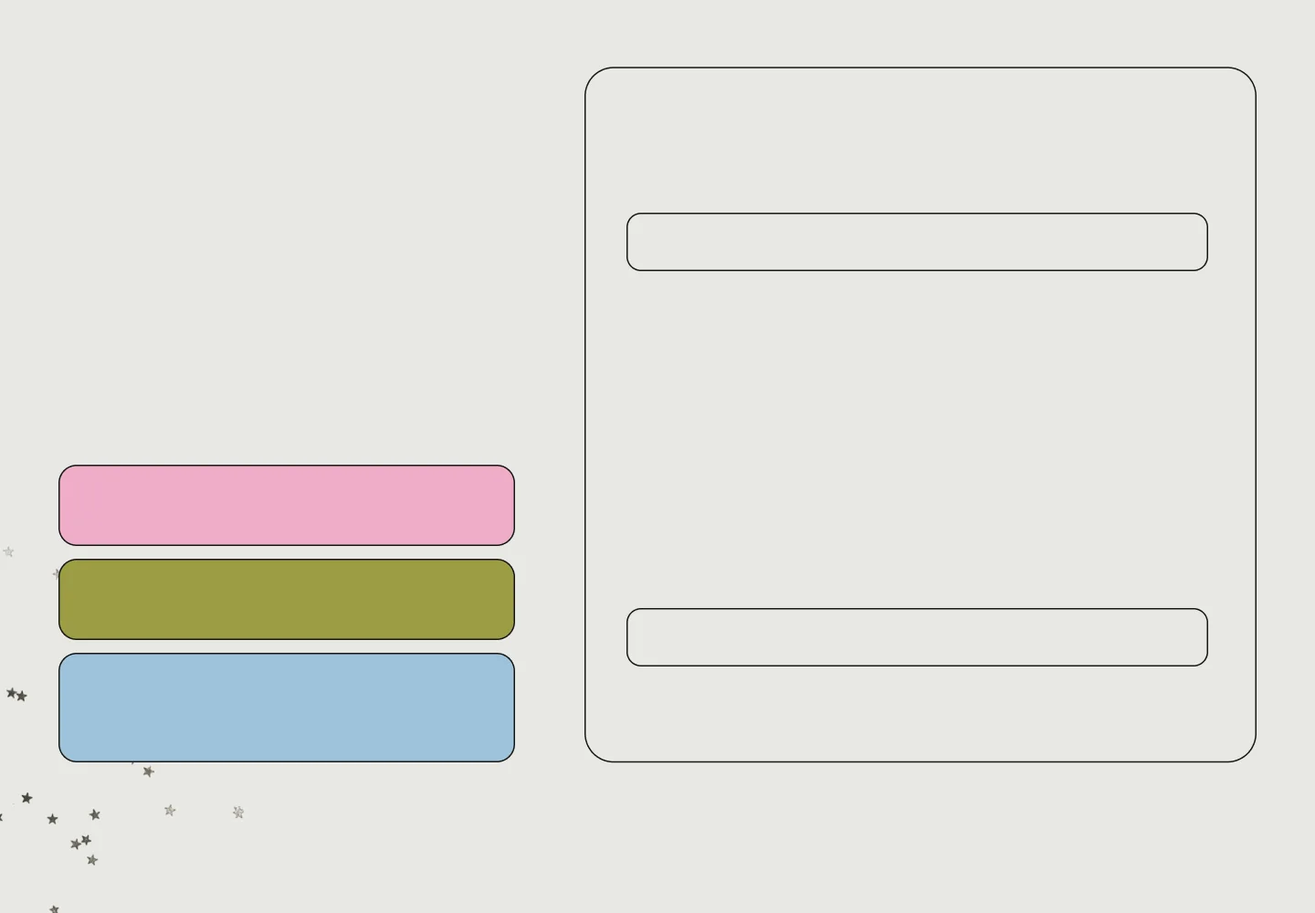
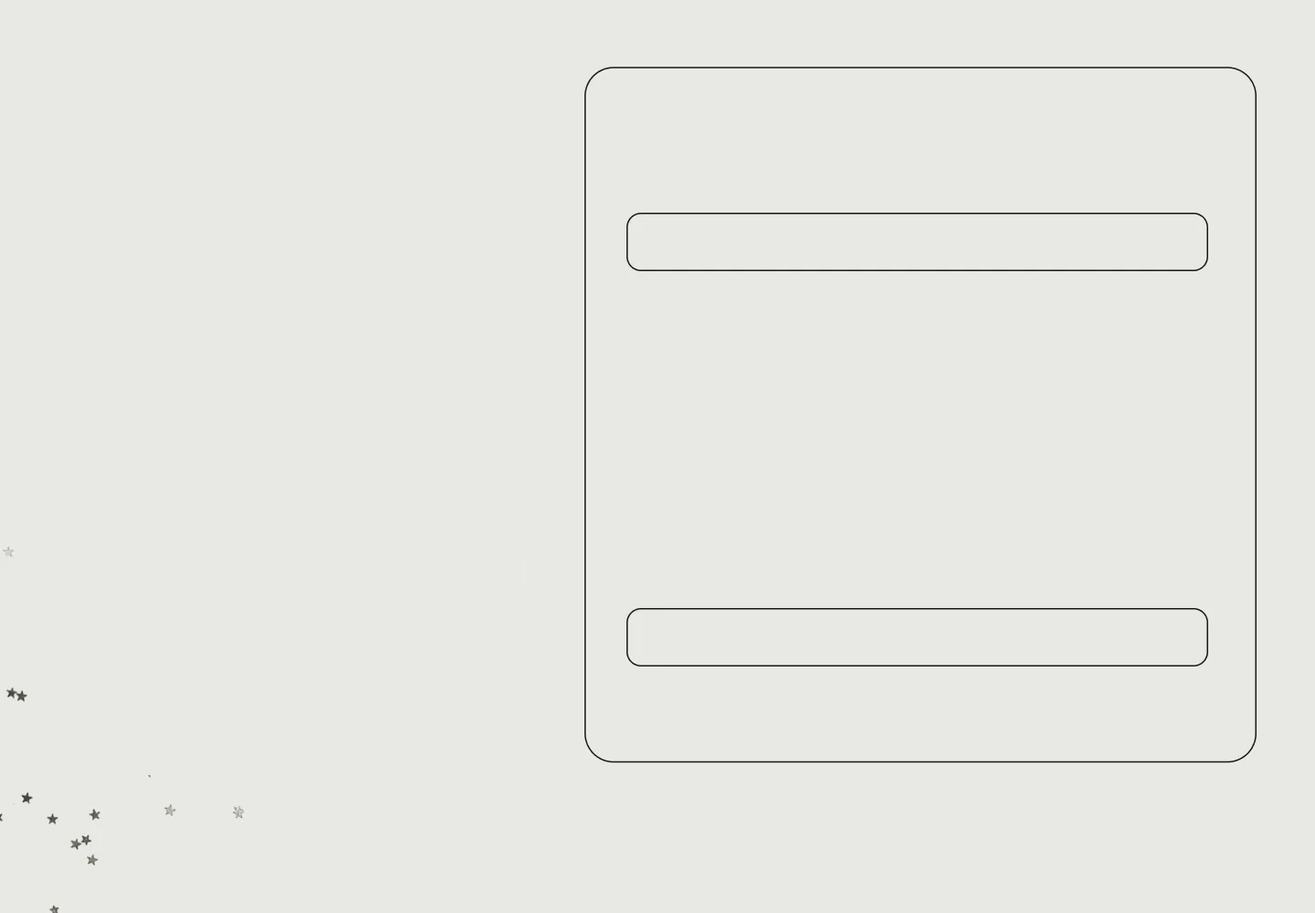
Шапка прячется при прокрутке, пасхалка с пайетками, ответы в Telegram-бот
- шапка уезжает вверх при прокрутке вниз и возвращается при прокрутке вверх
- клик по пустому месту выпускает горсть пайеток
- конфетти в блоке «до встречи» больше не качается, падающие пайетки над ним скрыты
- убраны карточки «после отправки — что увидит гость» из фона
- ответы сохраняются в Supabase и триггером уходят в Telegram-бот;
  кнопка «отправить Маше в Telegram» убрана
- supabase/telegram-setup.sql и telegram-secrets.sql для настройки

Changed region(s): [[0.0312, 0.496, 0.4062, 0.837]]

diff --git a/index.html b/index.html
@@ -25,7 +25,8 @@ img{display:block;width:100%;height:auto}
 .cv{position:relative;container-type:inline-size;width:100%;margin:0 auto;overflow-x:clip}
 .cv.d{--u:calc(100cqw / 1440)}
 .cv.m{--u:calc(100cqw / 390);max-width:560px}
-.hd{position:sticky;top:0;z-index:20}
+.hd{position:sticky;top:0;z-index:20;transition:translate .35s ease}
+.hd.away{translate:0 -100%}
 .only-m{display:none}
 @media (max-width:820px){.only-d{display:none}.only-m{display:block}}
 .o{position:absolute;left:calc(var(--x)*var(--u));top:calc(var(--y)*var(--u));width:calc(var(--w)*var(--u));height:calc(var(--h)*var(--u))}
@@ -93,7 +94,8 @@ a.o:hover,button.o:hover{background:rgba(255,255,255,.14)}
 @keyframes specks{to{background-position:calc(36*var(--u)) calc(-29*var(--u)),calc(-51*var(--u)) calc(41*var(--u))}}
 @keyframes twk{0%{opacity:.7}50%{opacity:.3}}
 /* falling paper confetti, above everything */
-.fall{position:fixed;inset:0;pointer-events:none;z-index:35;overflow:hidden}
+.fall{position:fixed;inset:0;pointer-events:none;z-index:35;overflow:hidden;transition:opacity .6s}
+.fall.calm{opacity:0}
 .fall img{position:absolute;left:0;top:0;width:var(--s);height:var(--s);will-change:transform;filter:drop-shadow(0 1px 1.5px rgba(22,22,22,.18))}
 @media (prefers-reduced-motion:reduce){.fall{display:none}}
 /* buttons as objects */
@@ -212,7 +214,7 @@ button.o.bt[aria-busy=true]{opacity:.6;pointer-events:none}
   </nav>
 </div></div>
 
-<main class="cv m only-m" id="mob" style="height:calc(11473 * var(--u))">
+<main class="cv m only-m" id="mob" style="height:calc(11128 * var(--u))">
   <img src="img/m-00.webp" alt="" width="780" height="2000">
   <img src="img/m-01.webp" alt="" width="780" height="2000" loading="lazy">
   <img src="img/m-02.webp" alt="" width="780" height="2000" loading="lazy">
@@ -224,7 +226,7 @@ button.o.bt[aria-busy=true]{opacity:.6;pointer-events:none}
   <img src="img/m-08.webp" alt="" width="780" height="2000" loading="lazy">
   <img src="img/m-09.webp" alt="" width="780" height="2000" loading="lazy">
   <img src="img/m-10.webp" alt="" width="780" height="2000" loading="lazy">
-  <img src="img/m-11.webp" alt="" width="780" height="946" loading="lazy">
+  <img src="img/m-11.webp" alt="" width="780" height="256" loading="lazy">
   <div class="tx" data-set="m"></div>
   <span class="anchor" id="m-about" style="--y:1032"></span>
   <span class="anchor" id="m-program" style="--y:2814"></span>
@@ -237,7 +239,7 @@ button.o.bt[aria-busy=true]{opacity:.6;pointer-events:none}
   <a class="o maps" data-b="12:312" href="#" style="--x:46;--y:7278;--w:299;--h:62">как добраться</a>
   <a class="o" data-b="12:471" href="#m-rsvp" style="--x:116;--y:8344;--w:159;--h:58">увидимся?</a>
   <a class="o wish" data-b="37:843" href="https://podarkus.ru/user/768787" target="_blank" rel="noopener" style="--x:20;--y:9360;--w:350;--h:68">открыть мой вишлист</a>
-  <a class="o" href="https://t.me/maru_stepanova" style="--x:20;--y:11346;--w:350;--h:56">написать в Telegram</a>
+  <a class="o" href="https://t.me/maru_stepanova" style="--x:20;--y:11001;--w:350;--h:56">написать в Telegram</a>
   <form class="rsvp" novalidate>
     <input class="hp" name="website" tabindex="-1" autocomplete="off" aria-hidden="true">
     <input class="inp" name="name" autocomplete="name" placeholder="имя или как тебя называют друзья" aria-label="Как тебя зовут?" style="--x:44;--y:9962;--w:303;--h:85">
@@ -257,18 +259,16 @@ button.o.bt[aria-busy=true]{opacity:.6;pointer-events:none}
   <div class="card">
     <p class="k" id="dlgK">ответ</p>
     <h2 id="dlgT">ура! увидимся в гараже ♡</h2>
-    <p id="dlgP">Чтобы я точно получила ответ, отправь его мне в Telegram — сообщение уже готово.</p>
+    <p id="dlgP">Ответ уже у меня. Передумаешь — просто отправь форму ещё раз.</p>
     <div class="row">
-      <a class="mbtn" id="dlgTg" href="https://t.me/maru_stepanova" target="_blank" rel="noopener">отправить Маше в Telegram</a>
-      <button class="mbtn ghost" type="button" id="dlgX">закрыть</button>
+      <button class="mbtn" type="button" id="dlgX">закрыть</button>
     </div>
-    <p class="note" id="dlgN">Ответ уйдёт сообщением в Telegram @maru_stepanova.</p>
   </div>
 </div>
 
 <canvas id="boom" aria-hidden="true"></canvas>
-<script type="application/json" id="hwdata">{"d":{"b":[[62,63,116,17,1,1188,2665],[0,126,773,269,2,0,832],[61,408,558,195,1,900,1103],[66,666,405,100,1,892,1902],[62,1015,187,17,1,0,2686],[65,1144,510,121,1,0,1779],[266,1225,450,108,1,512,1779],[61,1436,641,317,1,464,503],[20,1810,1420,501,1,0,0],[62,2131,177,19,1,896,2637],[59,2370,403,75,1,0,2190],[788,2370,605,69,1,0,2267],[59,2435,478,49,1,396,2402],[1079,2442,268,62,1,900,2267],[64,2526,273,56,1,1077,2338],[784,2580,474,43,1,993,2402],[66,2591,333,33,1,246,2505],[1006,2612,387,61,1,364,2338],[524,2712,143,56,1,0,2402],[62,3373,146,17,1,189,2686],[81,3500,493,142,1,877,1494],[843,3511,426,87,1,753,2008],[118,3750,41,19,1,1075,2637],[550,3750,41,19,1,1118,2637],[982,3789,41,19,1,1161,2637],[130,3797,322,60,1,753,2338],[576,3797,288,28,1,655,2577],[551,3852,339,205,1,559,1103],[126,3870,341,154,1,1091,1312],[1025,4000,251,31,1,350,2543],[993,4061,320,154,1,0,1494],[550,4400,41,19,1,1290,2637],[118,4439,41,19,1,1204,2637],[982,4439,41,19,1,1247,2637],[614,4446,210,33,1,827,2505],[562,4508,316,127,1,324,1650],[164,4524,244,33,1,581,2505],[1072,4526,160,31,1,603,2543],[135,4564,305,180,1,0,1312],[990,4578,322,127,1,0,1650],[722,5012,147,19,1,1333,2637],[724,5091,442,166,1,647,1312],[721,5293,557,207,1,0,1103],[915,5555,368,74,1,405,2190],[62,5868,166,19,1,0,2665],[494,5907,227,43,1,0,2460],[764,5942,101,32,1,1039,2505],[602,5950,150,28,1,945,2577],[142,6082,51,15,1,1011,2686],[742,6082,51,15,1,1064,2686],[174,6127,462,327,1,0,503],[768,6137,348,32,1,0,2543],[769,6282,45,17,1,337,2686],[770,6305,338,39,1,361,2460],[768,6352,87,15,1,1117,2686],[769,6375,206,39,1,701,2460],[769,6422,27,17,1,384,2686],[773,6445,451,37,1,909,2460],[769,6492,70,15,1,1206,2686],[773,6514,244,36,1,0,2505],[356,6516,130,39,1,229,2460],[354,6551,115,46,1,876,2402],[148,6811,425,88,1,326,2008],[836,6815,320,78,1,1124,2101],[890,6914,335,21,1,230,2637],[163,6955,250,26,1,657,2608],[890,6961,269,26,1,909,2608],[164,7001,242,27,1,1097,2577],[890,7008,262,26,1,1180,2608],[162,7048,182,27,1,0,2608],[890,7054,300,27,1,184,2608],[890,7102,327,21,1,567,2637],[641,7433,156,19,1,168,2665],[436,7592,612,104,1,0,1902],[459,7728,569,30,1,765,2543],[62,8209,126,17,1,413,2686],[73,8270,710,127,1,642,1650],[745,8458,603,87,1,0,2101],[70,8459,517,86,1,605,2101],[145,8570,553,146,1,322,1494],[62,9058,106,17,1,541,2686],[68,9114,439,72,1,775,2190],[1021,9142,291,65,1,607,2267],[685,9173,169,27,1,486,2608],[61,9214,494,236,1,775,832],[683,9356,228,26,1,0,2637],[62,9478,281,17,1,649,2686],[88,9528,77,17,1,932,2686],[87,9550,296,29,1,0,2577],[1034,9571,324,91,1,0,2008],[683,9592,249,53,1,145,2402],[88,9631,195,15,1,1278,2686],[88,9653,355,29,1,298,2577],[88,9734,161,15,1,0,2705],[87,9754,362,62,1,0,2338],[65,10140,338,179,1,307,1312],[479,10217,276,103,1,614,1902],[62,10427,562,19,1,326,2665],[1021,10517,296,18,1,890,2665]],"sz":[1480,2720],"k":1,"src":"img/d-text.webp"},"m":{"b":[[18,31,91,14,1,536,9582],[17,61,356,123,2,0,4704],[17,625,344,228,10,0,1874],[17,867,222,57,2,0,6514],[18,1087,145,14,1,0,9614],[17,1116,211,66,2,344,5882],[51,1529,126,30,1,0,8406],[18,1639,340,49,2,0,7482],[17,1708,354,310,13,0,774],[18,2136,137,16,1,0,9482],[17,2153,183,37,2,0,7850],[17,2190,242,28,1,290,8528],[17,2217,148,33,1,0,8210],[17,2250,169,20,1,446,9320],[100,2291,273,34,1,0,8070],[236,2326,137,34,1,0,8140],[133,2360,240,24,1,0,8702],[176,2384,197,33,1,298,8210],[0,2478,390,115,1,0,4952],[158,2545,55,24,1,482,8702],[0,2765,390,53,1,0,6856],[18,2869,114,14,1,292,9614],[17,2895,204,62,2,0,6024],[17,2967,216,46,2,0,7582],[42,3089,41,19,1,194,9364],[42,3168,237,53,2,0,6964],[41,3244,300,386,15,0,0],[42,3733,41,19,1,278,9364],[43,3812,256,29,1,0,8468],[41,3856,290,206,8,0,2760],[42,4164,41,19,1,362,9364],[42,4237,233,34,1,276,8140],[42,4287,272,128,5,0,3934],[42,4517,41,19,1,446,9364],[42,4590,221,35,1,0,7926],[41,4640,306,180,7,0,3572],[42,4922,41,19,1,530,9364],[43,5001,151,28,1,0,8588],[41,5046,293,127,5,0,4192],[42,5275,41,19,1,614,9364],[42,5348,196,35,1,0,7998],[42,5398,303,127,5,0,4448],[18,6018,114,16,1,276,9482],[17,6048,171,70,2,0,5882],[17,6137,339,238,10,0,1396],[17,6391,202,43,2,0,7676],[18,6550,129,16,1,506,9482],[17,6580,144,29,1,0,8528],[185,6602,65,22,1,508,9002],[84,6607,96,20,1,0,9364],[43,6668,43,13,1,168,9644],[43,6693,279,198,9,0,3174],[44,6902,83,27,1,304,8588],[42,6924,74,31,1,0,8278],[42,6982,208,21,1,0,9188],[44,7015,38,15,1,246,9516],[43,7028,190,24,1,0,8752],[44,7064,72,13,1,256,9644],[43,7077,117,24,1,382,8752],[44,7113,24,15,1,324,9516],[43,7126,253,23,1,0,9002],[44,7161,58,13,1,402,9644],[43,7175,138,22,1,0,9050],[42,7408,191,21,1,418,9188],[43,7443,213,21,1,0,9232],[43,7478,207,22,1,278,9050],[43,7514,160,22,1,0,9096],[17,7577,202,51,2,0,7072],[42,7667,306,24,1,0,8802],[43,7705,277,18,1,0,9406],[43,7741,227,21,1,0,9276],[43,7777,222,21,1,0,9320],[43,7812,251,22,1,0,9142],[43,7849,271,18,1,0,9444],[134,8147,122,16,1,0,9516],[31,8173,328,57,2,0,6630],[21,8245,346,42,2,0,7764],[82,8302,225,30,1,254,8406],[18,8747,98,14,1,522,9614],[17,8777,257,50,2,0,7176],[18,8847,336,213,9,0,2332],[17,9077,280,76,3,0,5728],[45,9446,299,13,1,0,9674],[18,9578,83,14,1,0,9644],[18,9621,249,90,2,0,5374],[17,9726,344,94,4,0,5184],[42,9864,169,27,1,0,8646],[43,9897,295,59,2,0,6274],[41,10078,208,24,1,0,8852],[41,10329,292,50,2,0,7278],[43,10389,288,59,2,0,6394],[18,10644,231,15,1,0,9550],[38,10695,64,15,1,464,9550],[37,10713,236,24,1,0,8902],[38,10793,160,13,1,0,9702],[37,10810,282,24,1,0,8952],[38,10891,133,13,1,322,9702],[37,10907,288,50,2,0,7380],[19,11103,302,85,2,0,5556],[17,11203,241,61,1,0,6150],[18,11307,328,31,2,0,8342],[21,11348,346,54,2,0,6746],[18,11412,267,15,1,0,9582]],"sz":[800,9728],"k":2,"src":"img/m-text.webp"}}</script>
-<script type="application/json" id="dcdata">{"dsec": [[0, 920], [920, 1140], [2060, 1218], [3278, 1615], [4893, 880], [5773, 1521], [7294, 820], [8114, 849], [8963, 1055], [10018, 560]], "msec": [[0, 1032], [1032, 1050], [2082, 733], [2814, 2798], [5613, 883], [6495, 1463], [7958, 734], [8692, 831], [9523, 1516], [11039, 434]], "d": [{"f": "img/x-5_50.webp", "x": 510, "y": 654, "w": 60, "h": 60, "a": "spin", "d": 0.08, "s": 0, "m": false}, {"f": "img/x-5_62.webp", "x": 1210, "y": 0, "w": 225.3, "h": 267.9, "a": "swing", "d": 0, "s": 0, "m": false}, {"f": "img/x-38_1563.webp", "x": 739, "y": 251, "w": 69, "h": 90, "a": "float", "d": 0.06, "s": 0, "m": false}, {"f": "img/x-72_218.webp", "x": 1292.4, "y": 451, "w": 79.2, "h": 79.2, "a": "float", "d": 0.1, "s": 0, "m": false}, {"f": "img/x-24_762.webp", "x": 667, "y": 672, "w": 148, "h": 116, "a": "nudge", "d": 0.02, "s": 2, "m": false}, {"f": "img/x-21_929.webp", "x": 525, "y": 453.4, "w": 68, "h": 76.7, "a": "beat", "d": 0.04, "s": 2, "m": false}, {"f": "img/x-6_359.webp", "x": 40, "y": 640, "w": 48, "h": 48, "a": "spin", "d": 0.08, "s": 2, "m": false}, {"f": "img/x-73_701.webp", "x": 113.2, "y": 927.1, "w": 99.3, "h": 99.3, "a": "spin", "d": 0.06, "s": 1, "m": false}, {"f": "img/x-72_222.webp", "x": 1235.1, "y": 174, "w": 57.8, "h": 57.8, "a": "float", "d": 0.1, "s": 2, "m": false}, {"f": "img/x-72_228.webp", "x": 440, "y": 1531, "w": 46.3, "h": 46.3, "a": "float", "d": 0.12, "s": 3, "m": false}, {"f": "img/x-6_494.webp", "x": 92.8, "y": 136.8, "w": 594.2, "h": 594.2, "a": "spinslow", "d": 0.04, "s": 4, "m": false}, {"f": "img/x-28_562.webp", "x": 0, "y": 360, "w": 526, "h": 520, "a": "glimmer", "d": 0, "s": 4, "m": false}, {"f": "img/x-6_495.webp", "x": 1172, "y": 0, "w": 254, "h": 299.9, "a": "swing", "d": 0, "s": 4, "m": false}, {"f": "img/x-72_224.webp", "x": 93, "y": 149.4, "w": 59.3, "h": 59.3, "a": "float", "d": 0.1, "s": 4, "m": false}, {"f": "img/x-72_226.webp", "x": 577.3, "y": 651, "w": 57.4, "h": 57.4, "a": "float", "d": 0.12, "s": 4, "m": false}, {"f": "img/x-8_449.webp", "x": 1049, "y": 440, "w": 200.8, "h": 81, "a": "drift", "d": 0.02, "s": 5, "m": false}, {"f": "img/x-28_444.webp", "x": 924, "y": 1449, "w": 44.6, "h": 44.6, "a": "float", "d": 0.08, "s": 5, "m": false}, {"f": "img/x-72_230.webp", "x": 1293.5, "y": 260, "w": 62.2, "h": 62.2, "a": "float", "d": 0.1, "s": 5, "m": false}, {"f": "img/x-72_232.webp", "x": 82, "y": 880.3, "w": 48.5, "h": 48.5, "a": "float", "d": 0.12, "s": 5, "m": false}, {"f": "img/x-33_1415.webp", "x": 971, "y": 0, "w": 469, "h": 234.9, "a": "glimmer", "d": 0, "s": 6, "m": false}, {"f": "img/x-72_234.webp", "x": 156.8, "y": 95, "w": 73.4, "h": 73.4, "a": "float", "d": 0.1, "s": 6, "m": false}, {"f": "img/x-38_1528.webp", "x": 1100, "y": 741.7, "w": 56.5, "h": 56.5, "a": "float", "d": 0.08, "s": 7, "m": false}, {"f": "img/x-38_1524.webp", "x": 1387.2, "y": 548.3, "w": 42.7, "h": 42.7, "a": "float", "d": 0.12, "s": 7, "m": false}, {"f": "img/x-38_1526.webp", "x": 1338.9, "y": 734.7, "w": 56.3, "h": 56.3, "a": "float", "d": 0.06, "s": 7, "m": false}, {"f": "img/x-38_1522.webp", "x": 75, "y": 645, "w": 45.2, "h": 45.2, "a": "float", "d": 0.1, "s": 7, "m": false}, {"f": "img/x-8_762.webp", "x": 1290, "y": 20.9, "w": 127.4, "h": 127.4, "a": "spin", "d": 0.06, "s": 9, "m": false}, {"f": "img/x-28_564.webp", "x": 620, "y": 0, "w": 675, "h": 560, "a": "glimmer", "d": 0, "s": 9, "m": false}, {"f": "img/x-72_236.webp", "x": 942, "y": 87.6, "w": 50.4, "h": 50.4, "a": "float", "d": 0.1, "s": 9, "m": false}, {"f": "img/x-26_732.webp", "x": 0, "y": 7232, "w": 1440, "h": 890.5, "a": "float", "d": 0.03, "s": -1, "m": false}, {"f": "img/x-38_1530.webp", "x": 1194.3, "y": 8912.1, "w": 55.7, "h": 55.7, "a": "float", "d": 0.09, "s": -1, "m": false}, {"f": "img/x-72_220.webp", "x": 612, "y": 181.4, "w": 46.5, "h": 46.5, "a": "float", "d": 0.1, "s": 1, "m": false}, {"f": "img/x-5_68.webp", "x": 607, "y": 507, "w": 245.7, "h": 332.5, "a": "sway", "d": 0.03, "s": 0, "m": true}, {"f": "img/x-26_939.webp", "x": 6.1, "y": 25, "w": 1424.9, "h": 790.7, "a": "float", "d": 0.07, "s": 0, "m": false}], "m": [{"f": "img/y-11_111.webp", "x": 288, "y": 131, "w": 102, "h": 184.3, "a": "bob", "d": 0.04, "s": 0, "m": false}, {"f": "img/y-11_117.webp", "x": 30, "y": 211, "w": 232.8, "h": 61.9, "a": "wobble", "d": 0.05, "s": 0, "m": false}, {"f": "img/y-12_209.webp", "x": 250, "y": -0.1, "w": 131.1, "h": 162.6, "a": "swing", "d": 0, "s": 4, "m": false}, {"f": "img/y-12_532.webp", "x": 290, "y": 9.9, "w": 92.7, "h": 92.7, "a": "spin", "d": 0.05, "s": 9, "m": false}, {"f": "img/y-26_1366.webp", "x": 130.2, "y": 18, "w": 141.6, "h": 149.3, "a": "float", "d": 0.06, "s": 6, "m": false}, {"f": "img/y-28_960.webp", "x": 0, "y": 278.7, "w": 24.1, "h": 49, "a": "bob", "d": 0.062, "s": 0, "m": false}, {"f": "img/y-28_962.webp", "x": 338, "y": 238.6, "w": 48.5, "h": 48.5, "a": "float", "d": 0.08600000000000001, "s": 0, "m": false}, {"f": "img/y-28_964.webp", "x": 334.6, "y": 528.7, "w": 55.4, "h": 55.5, "a": "bob", "d": 0.11, "s": 0, "m": false}, {"f": "img/y-28_966.webp", "x": 2.5, "y": 569.1, "w": 53.8, "h": 53.8, "a": "float", "d": 0.05, "s": 0, "m": false}, {"f": "img/y-28_968.webp", "x": 217.7, "y": 551.4, "w": 55.9, "h": 55.9, "a": "float", "d": 0.07400000000000001, "s": 0, "m": false}, {"f": "img/y-28_970.webp", "x": 277.9, "y": 328.9, "w": 40, "h": 40, "a": "float", "d": 0.098, "s": 0, "m": false}, {"f": "img/y-28_972.webp", "x": 0, "y": 582.2, "w": 11.1, "h": 50.8, "a": "bob", "d": 0.12200000000000001, "s": 6, "m": false}, {"f": "img/y-28_974.webp", "x": 159.3, "y": 604.2, "w": 56.5, "h": 56.5, "a": "float", "d": 0.062, "s": 6, "m": false}, {"f": "img/y-28_976.webp", "x": 315.9, "y": 11.5, "w": 55.9, "h": 55.9, "a": "float", "d": 0.08600000000000001, "s": 6, "m": false}, {"f": "img/y-28_978.webp", "x": 354.8, "y": 323, "w": 35.2, "h": 56.5, "a": "bob", "d": 0.11, "s": 6, "m": false}, {"f": "img/y-28_980.webp", "x": 0, "y": 620.7, "w": 34.5, "h": 53.5, "a": "bob", "d": 0.05, "s": 6, "m": false}, {"f": "img/y-28_982.webp", "x": 331.5, "y": 504.8, "w": 55.5, "h": 55.5, "a": "float", "d": 0.07400000000000001, "s": 6, "m": false}, {"f": "img/y-28_984.webp", "x": 349.1, "y": 567.3, "w": 40.9, "h": 55.9, "a": "bob", "d": 0.098, "s": 6, "m": false}, {"f": "img/y-28_986.webp", "x": 206.5, "y": 7926.6, "w": 40, "h": 40, "a": "float", "d": 0.12200000000000001, "s": -1, "m": false}, {"f": "img/y-28_988.webp", "x": 123.8, "y": 568.4, "w": 56.4, "h": 56.4, "a": "float", "d": 0.062, "s": 6, "m": false}, {"f": "img/y-28_990.webp", "x": 282.4, "y": 621.7, "w": 55.3, "h": 55.3, "a": "float", "d": 0.08600000000000001, "s": 6, "m": false}, {"f": "img/y-28_992.webp", "x": 161.8, "y": 595.3, "w": 56.5, "h": 56.5, "a": "float", "d": 0.11, "s": 6, "m": false}, {"f": "img/y-28_994.webp", "x": 364.8, "y": 517.6, "w": 25.2, "h": 44, "a": "bob", "d": 0.05, "s": 6, "m": false}, {"f": "img/y-28_996.webp", "x": 330.7, "y": 461.4, "w": 54.6, "h": 54.6, "a": "float", "d": 0.07400000000000001, "s": 6, "m": false}, {"f": "img/y-28_998.webp", "x": 155.1, "y": 521.6, "w": 40.7, "h": 40.7, "a": "float", "d": 0.098, "s": 6, "m": false}, {"f": "img/y-28_1000.webp", "x": 344.3, "y": 11.8, "w": 45.2, "h": 45.2, "a": "bob", "d": 0.12200000000000001, "s": 6, "m": false}, {"f": "img/y-28_1002.webp", "x": 141.3, "y": 35.1, "w": 49, "h": 49, "a": "float", "d": 0.062, "s": 6, "m": false}, {"f": "img/y-28_1004.webp", "x": 0, "y": 567.3, "w": 50.8, "h": 51.3, "a": "bob", "d": 0.08600000000000001, "s": 6, "m": false}, {"f": "img/y-28_1006.webp", "x": 94, "y": 502.9, "w": 40, "h": 40, "a": "float", "d": 0.11, "s": 6, "m": false}, {"f": "img/y-28_1008.webp", "x": 209.6, "y": 7939.1, "w": 54.1, "h": 54.1, "a": "float", "d": 0.05, "s": -1, "m": false}, {"f": "img/y-28_1010.webp", "x": 167.1, "y": 579.7, "w": 49, "h": 49, "a": "float", "d": 0.07400000000000001, "s": 6, "m": false}, {"f": "img/y-28_1012.webp", "x": 171.3, "y": 0, "w": 53.5, "h": 49.5, "a": "none", "d": 0, "s": 6, "m": false}, {"f": "img/y-28_1014.webp", "x": 343, "y": 0, "w": 47, "h": 46, "a": "none", "d": 0, "s": 6, "m": false}, {"f": "img/y-28_1016.webp", "x": 248.5, "y": 20.6, "w": 54.4, "h": 54.4, "a": "float", "d": 0.062, "s": 6, "m": false}, {"f": "img/y-28_1018.webp", "x": 340.7, "y": 28.9, "w": 48, "h": 48, "a": "float", "d": 0.08600000000000001, "s": 6, "m": false}, {"f": "img/y-28_1020.webp", "x": 270.1, "y": 518.6, "w": 51.7, "h": 51.7, "a": "float", "d": 0.11, "s": 6, "m": false}, {"f": "img/y-28_1022.webp", "x": 351.3, "y": 499, "w": 38.7, "h": 56, "a": "bob", "d": 0.05, "s": 6, "m": false}, {"f": "img/y-37_835.webp", "x": 60, "y": 517.8, "w": 40, "h": 40, "a": "float", "d": 0.07400000000000001, "s": 7, "m": false}, {"f": "img/y-37_837.webp", "x": 310, "y": 463.1, "w": 54.6, "h": 54.6, "a": "float", "d": 0.098, "s": 7, "m": false}, {"f": "img/y-37_839.webp", "x": 270, "y": 543.1, "w": 54.6, "h": 54.6, "a": "float", "d": 0.12200000000000001, "s": 7, "m": false}, {"f": "img/y-37_841.webp", "x": 40, "y": 567.8, "w": 40, "h": 40, "a": "float", "d": 0.062, "s": 7, "m": false}, {"f": "img/y-72_623.webp", "x": 296.3, "y": 381, "w": 56.4, "h": 56.4, "a": "float", "d": 0.1, "s": 0, "m": false}, {"f": "img/y-72_625.webp", "x": 22, "y": 75.9, "w": 48, "h": 48, "a": "float", "d": 0.1, "s": 4, "m": false}, {"f": "img/y-72_627.webp", "x": 312.3, "y": 313.9, "w": 48.5, "h": 48.5, "a": "float", "d": 0.12, "s": 4, "m": false}], "db": {"38:1532": ["img/x-38_1532.webp", 895, 8721, 395, 89], "8:469": ["img/x-8_469.webp", 770, 6603, 159, 58], "8:471": ["img/x-8_471.webp", 943, 6603, 195, 62], "8:694": ["img/x-8_694.webp", 640, 7790, 159, 58], "8:751": ["img/x-8_751.webp", 689.5, 9749.8, 208, 58]}, "mb": {"12:310": ["img/y-12_310.webp", 45.5, 7210.2, 299, 58], "12:312": ["img/y-12_312.webp", 45.5, 7278.2, 299, 62], "12:471": ["img/y-12_471.webp", 115.5, 8344.3, 159, 58], "37:843": ["img/y-37_843.webp", 20, 9359.8, 350, 68], "12:513": ["img/y-12_513.webp", 43.5, 10544.3, 303, 58]}}</script>
+<script type="application/json" id="hwdata">{"d":{"b":[[62,63,116,17,1,1188,2665],[0,126,773,269,2,0,832],[61,408,558,195,1,900,1103],[66,666,405,100,1,892,1902],[62,1015,187,17,1,0,2686],[65,1144,510,121,1,0,1779],[266,1225,450,108,1,512,1779],[61,1436,641,317,1,464,503],[20,1810,1420,501,1,0,0],[62,2131,177,19,1,896,2637],[59,2370,403,75,1,0,2190],[788,2370,605,69,1,0,2267],[59,2435,478,49,1,396,2402],[1079,2442,268,62,1,900,2267],[64,2526,273,56,1,1077,2338],[784,2580,474,43,1,993,2402],[66,2591,333,33,1,246,2505],[1006,2612,387,61,1,364,2338],[524,2712,143,56,1,0,2402],[62,3373,146,17,1,189,2686],[81,3500,493,142,1,877,1494],[843,3511,426,87,1,753,2008],[118,3750,41,19,1,1075,2637],[550,3750,41,19,1,1118,2637],[982,3789,41,19,1,1161,2637],[130,3797,322,60,1,753,2338],[576,3797,288,28,1,655,2577],[551,3852,339,205,1,559,1103],[126,3870,341,154,1,1091,1312],[1025,4000,251,31,1,350,2543],[993,4061,320,154,1,0,1494],[550,4400,41,19,1,1290,2637],[118,4439,41,19,1,1204,2637],[982,4439,41,19,1,1247,2637],[614,4446,210,33,1,827,2505],[562,4508,316,127,1,324,1650],[164,4524,244,33,1,581,2505],[1072,4526,160,31,1,603,2543],[135,4564,305,180,1,0,1312],[990,4578,322,127,1,0,1650],[722,5012,147,19,1,1333,2637],[724,5091,442,166,1,647,1312],[721,5293,557,207,1,0,1103],[915,5555,368,74,1,405,2190],[62,5868,166,19,1,0,2665],[494,5907,227,43,1,0,2460],[764,5942,101,32,1,1039,2505],[602,5950,150,28,1,945,2577],[142,6082,51,15,1,1011,2686],[742,6082,51,15,1,1064,2686],[174,6127,462,327,1,0,503],[768,6137,348,32,1,0,2543],[769,6282,45,17,1,337,2686],[770,6305,338,39,1,361,2460],[768,6352,87,15,1,1117,2686],[769,6375,206,39,1,701,2460],[769,6422,27,17,1,384,2686],[773,6445,451,37,1,909,2460],[769,6492,70,15,1,1206,2686],[773,6514,244,36,1,0,2505],[356,6516,130,39,1,229,2460],[354,6551,115,46,1,876,2402],[148,6811,425,88,1,326,2008],[836,6815,320,78,1,1124,2101],[890,6914,335,21,1,230,2637],[163,6955,250,26,1,657,2608],[890,6961,269,26,1,909,2608],[164,7001,242,27,1,1097,2577],[890,7008,262,26,1,1180,2608],[162,7048,182,27,1,0,2608],[890,7054,300,27,1,184,2608],[890,7102,327,21,1,567,2637],[641,7433,156,19,1,168,2665],[436,7592,612,104,1,0,1902],[459,7728,569,30,1,765,2543],[62,8209,126,17,1,413,2686],[73,8270,710,127,1,642,1650],[745,8458,603,87,1,0,2101],[70,8459,517,86,1,605,2101],[145,8570,553,146,1,322,1494],[62,9058,106,17,1,541,2686],[68,9114,439,72,1,775,2190],[1021,9142,291,65,1,607,2267],[685,9173,169,27,1,486,2608],[61,9214,494,236,1,775,832],[683,9356,228,26,1,0,2637],[1034,9571,324,91,1,0,2008],[683,9592,249,53,1,145,2402],[65,10140,338,179,1,307,1312],[479,10217,276,103,1,614,1902],[62,10427,562,19,1,326,2665],[1021,10517,296,18,1,890,2665]],"sz":[1480,2720],"k":1,"src":"img/d-text.webp"},"m":{"b":[[18,31,91,14,1,536,9582],[17,61,356,123,2,0,4704],[17,625,344,228,10,0,1874],[17,867,222,57,2,0,6514],[18,1087,145,14,1,0,9614],[17,1116,211,66,2,344,5882],[51,1529,126,30,1,0,8406],[18,1639,340,49,2,0,7482],[17,1708,354,310,13,0,774],[18,2136,137,16,1,0,9482],[17,2153,183,37,2,0,7850],[17,2190,242,28,1,290,8528],[17,2217,148,33,1,0,8210],[17,2250,169,20,1,446,9320],[100,2291,273,34,1,0,8070],[236,2326,137,34,1,0,8140],[133,2360,240,24,1,0,8702],[176,2384,197,33,1,298,8210],[0,2478,390,115,1,0,4952],[158,2545,55,24,1,482,8702],[0,2765,390,53,1,0,6856],[18,2869,114,14,1,292,9614],[17,2895,204,62,2,0,6024],[17,2967,216,46,2,0,7582],[42,3089,41,19,1,194,9364],[42,3168,237,53,2,0,6964],[41,3244,300,386,15,0,0],[42,3733,41,19,1,278,9364],[43,3812,256,29,1,0,8468],[41,3856,290,206,8,0,2760],[42,4164,41,19,1,362,9364],[42,4237,233,34,1,276,8140],[42,4287,272,128,5,0,3934],[42,4517,41,19,1,446,9364],[42,4590,221,35,1,0,7926],[41,4640,306,180,7,0,3572],[42,4922,41,19,1,530,9364],[43,5001,151,28,1,0,8588],[41,5046,293,127,5,0,4192],[42,5275,41,19,1,614,9364],[42,5348,196,35,1,0,7998],[42,5398,303,127,5,0,4448],[18,6018,114,16,1,276,9482],[17,6048,171,70,2,0,5882],[17,6137,339,238,10,0,1396],[17,6391,202,43,2,0,7676],[18,6550,129,16,1,506,9482],[17,6580,144,29,1,0,8528],[185,6602,65,22,1,508,9002],[84,6607,96,20,1,0,9364],[43,6668,43,13,1,168,9644],[43,6693,279,198,9,0,3174],[44,6902,83,27,1,304,8588],[42,6924,74,31,1,0,8278],[42,6982,208,21,1,0,9188],[44,7015,38,15,1,246,9516],[43,7028,190,24,1,0,8752],[44,7064,72,13,1,256,9644],[43,7077,117,24,1,382,8752],[44,7113,24,15,1,324,9516],[43,7126,253,23,1,0,9002],[44,7161,58,13,1,402,9644],[43,7175,138,22,1,0,9050],[42,7408,191,21,1,418,9188],[43,7443,213,21,1,0,9232],[43,7478,207,22,1,278,9050],[43,7514,160,22,1,0,9096],[17,7577,202,51,2,0,7072],[42,7667,306,24,1,0,8802],[43,7705,277,18,1,0,9406],[43,7741,227,21,1,0,9276],[43,7777,222,21,1,0,9320],[43,7812,251,22,1,0,9142],[43,7849,271,18,1,0,9444],[134,8147,122,16,1,0,9516],[31,8173,328,57,2,0,6630],[21,8245,346,42,2,0,7764],[82,8302,225,30,1,254,8406],[18,8747,98,14,1,522,9614],[17,8777,257,50,2,0,7176],[18,8847,336,213,9,0,2332],[17,9077,280,76,3,0,5728],[45,9446,299,13,1,0,9674],[18,9578,83,14,1,0,9644],[18,9621,249,90,2,0,5374],[17,9726,344,94,4,0,5184],[42,9864,169,27,1,0,8646],[43,9897,295,59,2,0,6274],[41,10078,208,24,1,0,8852],[41,10329,292,50,2,0,7278],[43,10389,288,59,2,0,6394],[19,10758,302,85,2,0,5556],[17,10858,241,61,1,0,6150],[18,10962,328,31,2,0,8342],[21,11003,346,54,2,0,6746],[18,11067,267,15,1,0,9582]],"sz":[800,9728],"k":2,"src":"img/m-text.webp"}}</script>
+<script type="application/json" id="dcdata">{"dsec":[[0,920],[920,1140],[2060,1218],[3278,1615],[4893,880],[5773,1521],[7294,820],[8114,849],[8963,1055],[10018,560]],"msec":[[0,1032],[1032,1050],[2082,733],[2814,2798],[5613,883],[6495,1463],[7958,734],[8692,831],[9523,1171],[10694,434]],"d":[{"f":"img/x-5_50.webp","x":510,"y":654,"w":60,"h":60,"a":"spin","d":0.08,"s":0,"m":false},{"f":"img/x-5_62.webp","x":1210,"y":0,"w":225.3,"h":267.9,"a":"swing","d":0,"s":0,"m":false},{"f":"img/x-38_1563.webp","x":739,"y":251,"w":69,"h":90,"a":"float","d":0.06,"s":0,"m":false},{"f":"img/x-72_218.webp","x":1292.4,"y":451,"w":79.2,"h":79.2,"a":"float","d":0.1,"s":0,"m":false},{"f":"img/x-24_762.webp","x":667,"y":672,"w":148,"h":116,"a":"nudge","d":0.02,"s":2,"m":false},{"f":"img/x-21_929.webp","x":525,"y":453.4,"w":68,"h":76.7,"a":"beat","d":0.04,"s":2,"m":false},{"f":"img/x-6_359.webp","x":40,"y":640,"w":48,"h":48,"a":"spin","d":0.08,"s":2,"m":false},{"f":"img/x-73_701.webp","x":113.2,"y":927.1,"w":99.3,"h":99.3,"a":"spin","d":0.06,"s":1,"m":false},{"f":"img/x-72_222.webp","x":1235.1,"y":174,"w":57.8,"h":57.8,"a":"float","d":0.1,"s":2,"m":false},{"f":"img/x-72_228.webp","x":440,"y":1531,"w":46.3,"h":46.3,"a":"float","d":0.12,"s":3,"m":false},{"f":"img/x-6_494.webp","x":92.8,"y":136.8,"w":594.2,"h":594.2,"a":"spinslow","d":0.04,"s":4,"m":false},{"f":"img/x-28_562.webp","x":0,"y":360,"w":526,"h":520,"a":"glimmer","d":0,"s":4,"m":false},{"f":"img/x-6_495.webp","x":1172,"y":0,"w":254,"h":299.9,"a":"swing","d":0,"s":4,"m":false},{"f":"img/x-72_224.webp","x":93,"y":149.4,"w":59.3,"h":59.3,"a":"float","d":0.1,"s":4,"m":false},{"f":"img/x-72_226.webp","x":577.3,"y":651,"w":57.4,"h":57.4,"a":"float","d":0.12,"s":4,"m":false},{"f":"img/x-8_449.webp","x":1049,"y":440,"w":200.8,"h":81,"a":"drift","d":0.02,"s":5,"m":false},{"f":"img/x-28_444.webp","x":924,"y":1449,"w":44.6,"h":44.6,"a":"float","d":0.08,"s":5,"m":false},{"f":"img/x-72_230.webp","x":1293.5,"y":260,"w":62.2,"h":62.2,"a":"float","d":0.1,"s":5,"m":false},{"f":"img/x-72_232.webp","x":82,"y":880.3,"w":48.5,"h":48.5,"a":"float","d":0.12,"s":5,"m":false},{"f":"img/x-33_1415.webp","x":971,"y":0,"w":469,"h":234.9,"a":"glimmer","d":0,"s":6,"m":false},{"f":"img/x-72_234.webp","x":156.8,"y":95,"w":73.4,"h":73.4,"a":"float","d":0.1,"s":6,"m":false},{"f":"img/x-38_1528.webp","x":1100,"y":741.7,"w":56.5,"h":56.5,"a":"float","d":0.08,"s":7,"m":false},{"f":"img/x-38_1524.webp","x":1387.2,"y":548.3,"w":42.7,"h":42.7,"a":"float","d":0.12,"s":7,"m":false},{"f":"img/x-38_1526.webp","x":1338.9,"y":734.7,"w":56.3,"h":56.3,"a":"float","d":0.06,"s":7,"m":false},{"f":"img/x-38_1522.webp","x":75,"y":645,"w":45.2,"h":45.2,"a":"float","d":0.1,"s":7,"m":false},{"f":"img/x-8_762.webp","x":1290,"y":20.9,"w":127.4,"h":127.4,"a":"spin","d":0.06,"s":9,"m":false},{"f":"img/x-28_564.webp","x":620,"y":0,"w":675,"h":560,"a":"glimmer","d":0,"s":9,"m":false},{"f":"img/x-72_236.webp","x":942,"y":87.6,"w":50.4,"h":50.4,"a":"float","d":0.1,"s":9,"m":false},{"f":"img/x-26_732.webp","x":0,"y":7232,"w":1440,"h":890.5,"a":"none","d":0,"s":-1,"m":false},{"f":"img/x-38_1530.webp","x":1194.3,"y":8912.1,"w":55.7,"h":55.7,"a":"float","d":0.09,"s":-1,"m":false},{"f":"img/x-72_220.webp","x":612,"y":181.4,"w":46.5,"h":46.5,"a":"float","d":0.1,"s":1,"m":false},{"f":"img/x-5_68.webp","x":607,"y":507,"w":245.7,"h":332.5,"a":"sway","d":0.03,"s":0,"m":true},{"f":"img/x-26_939.webp","x":6.1,"y":25,"w":1424.9,"h":790.7,"a":"float","d":0.07,"s":0,"m":false}],"m":[{"f":"img/y-11_111.webp","x":288,"y":131,"w":102,"h":184.3,"a":"bob","d":0.04,"s":0,"m":false},{"f":"img/y-11_117.webp","x":30,"y":211,"w":232.8,"h":61.9,"a":"wobble","d":0.05,"s":0,"m":false},{"f":"img/y-12_209.webp","x":250,"y":-0.1,"w":131.1,"h":162.6,"a":"swing","d":0,"s":4,"m":false},{"f":"img/y-12_532.webp","x":290,"y":9.9,"w":92.7,"h":92.7,"a":"spin","d":0.05,"s":9,"m":false},{"f":"img/y-26_1366.webp","x":130.2,"y":18,"w":141.6,"h":149.3,"a":"float","d":0.06,"s":6,"m":false},{"f":"img/y-28_960.webp","x":0,"y":278.7,"w":24.1,"h":49,"a":"bob","d":0.062,"s":0,"m":false},{"f":"img/y-28_962.webp","x":338,"y":238.6,"w":48.5,"h":48.5,"a":"float","d":0.08600000000000001,"s":0,"m":false},{"f":"img/y-28_964.webp","x":334.6,"y":528.7,"w":55.4,"h":55.5,"a":"bob","d":0.11,"s":0,"m":false},{"f":"img/y-28_966.webp","x":2.5,"y":569.1,"w":53.8,"h":53.8,"a":"float","d":0.05,"s":0,"m":false},{"f":"img/y-28_968.webp","x":217.7,"y":551.4,"w":55.9,"h":55.9,"a":"float","d":0.07400000000000001,"s":0,"m":false},{"f":"img/y-28_970.webp","x":277.9,"y":328.9,"w":40,"h":40,"a":"float","d":0.098,"s":0,"m":false},{"f":"img/y-28_972.webp","x":0,"y":582.2,"w":11.1,"h":50.8,"a":"bob","d":0.12200000000000001,"s":6,"m":false},{"f":"img/y-28_974.webp","x":159.3,"y":604.2,"w":56.5,"h":56.5,"a":"float","d":0.062,"s":6,"m":false},{"f":"img/y-28_976.webp","x":315.9,"y":11.5,"w":55.9,"h":55.9,"a":"float","d":0.08600000000000001,"s":6,"m":false},{"f":"img/y-28_978.webp","x":354.8,"y":323,"w":35.2,"h":56.5,"a":"bob","d":0.11,"s":6,"m":false},{"f":"img/y-28_980.webp","x":0,"y":620.7,"w":34.5,"h":53.5,"a":"bob","d":0.05,"s":6,"m":false},{"f":"img/y-28_982.webp","x":331.5,"y":504.8,"w":55.5,"h":55.5,"a":"float","d":0.07400000000000001,"s":6,"m":false},{"f":"img/y-28_984.webp","x":349.1,"y":567.3,"w":40.9,"h":55.9,"a":"bob","d":0.098,"s":6,"m":false},{"f":"img/y-28_986.webp","x":206.5,"y":7926.6,"w":40,"h":40,"a":"none","d":0,"s":-1,"m":false},{"f":"img/y-28_988.webp","x":123.8,"y":568.4,"w":56.4,"h":56.4,"a":"float","d":0.062,"s":6,"m":false},{"f":"img/y-28_990.webp","x":282.4,"y":621.7,"w":55.3,"h":55.3,"a":"float","d":0.08600000000000001,"s":6,"m":false},{"f":"img/y-28_992.webp","x":161.8,"y":595.3,"w":56.5,"h":56.5,"a":"float","d":0.11,"s":6,"m":false},{"f":"img/y-28_994.webp","x":364.8,"y":517.6,"w":25.2,"h":44,"a":"bob","d":0.05,"s":6,"m":false},{"f":"img/y-28_996.webp","x":330.7,"y":461.4,"w":54.6,"h":54.6,"a":"float","d":0.07400000000000001,"s":6,"m":false},{"f":"img/y-28_998.webp","x":155.1,"y":521.6,"w":40.7,"h":40.7,"a":"float","d":0.098,"s":6,"m":false},{"f":"img/y-28_1000.webp","x":344.3,"y":11.8,"w":45.2,"h":45.2,"a":"bob","d":0.12200000000000001,"s":6,"m":false},{"f":"img/y-28_1002.webp","x":141.3,"y":35.1,"w":49,"h":49,"a":"float","d":0.062,"s":6,"m":false},{"f":"img/y-28_1004.webp","x":0,"y":567.3,"w":50.8,"h":51.3,"a":"bob","d":0.08600000000000001,"s":6,"m":false},{"f":"img/y-28_1006.webp","x":94,"y":502.9,"w":40,"h":40,"a":"float","d":0.11,"s":6,"m":false},{"f":"img/y-28_1008.webp","x":209.6,"y":7939.1,"w":54.1,"h":54.1,"a":"none","d":0,"s":-1,"m":false},{"f":"img/y-28_1010.webp","x":167.1,"y":579.7,"w":49,"h":49,"a":"float","d":0.07400000000000001,"s":6,"m":false},{"f":"img/y-28_1012.webp","x":171.3,"y":0,"w":53.5,"h":49.5,"a":"none","d":0,"s":6,"m":false},{"f":"img/y-28_1014.webp","x":343,"y":0,"w":47,"h":46,"a":"none","d":0,"s":6,"m":false},{"f":"img/y-28_1016.webp","x":248.5,"y":20.6,"w":54.4,"h":54.4,"a":"float","d":0.062,"s":6,"m":false},{"f":"img/y-28_1018.webp","x":340.7,"y":28.9,"w":48,"h":48,"a":"float","d":0.08600000000000001,"s":6,"m":false},{"f":"img/y-28_1020.webp","x":270.1,"y":518.6,"w":51.7,"h":51.7,"a":"float","d":0.11,"s":6,"m":false},{"f":"img/y-28_1022.webp","x":351.3,"y":499,"w":38.7,"h":56,"a":"bob","d":0.05,"s":6,"m":false},{"f":"img/y-37_835.webp","x":60,"y":517.8,"w":40,"h":40,"a":"float","d":0.07400000000000001,"s":7,"m":false},{"f":"img/y-37_837.webp","x":310,"y":463.1,"w":54.6,"h":54.6,"a":"float","d":0.098,"s":7,"m":false},{"f":"img/y-37_839.webp","x":270,"y":543.1,"w":54.6,"h":54.6,"a":"float","d":0.12200000000000001,"s":7,"m":false},{"f":"img/y-37_841.webp","x":40,"y":567.8,"w":40,"h":40,"a":"float","d":0.062,"s":7,"m":false},{"f":"img/y-72_623.webp","x":296.3,"y":381,"w":56.4,"h":56.4,"a":"float","d":0.1,"s":0,"m":false},{"f":"img/y-72_625.webp","x":22,"y":75.9,"w":48,"h":48,"a":"float","d":0.1,"s":4,"m":false},{"f":"img/y-72_627.webp","x":312.3,"y":313.9,"w":48.5,"h":48.5,"a":"float","d":0.12,"s":4,"m":false}],"db":{"38:1532":["img/x-38_1532.webp",895,8721,395,89],"8:469":["img/x-8_469.webp",770,6603,159,58],"8:471":["img/x-8_471.webp",943,6603,195,62],"8:694":["img/x-8_694.webp",640,7790,159,58],"8:751":["img/x-8_751.webp",689.5,9749.8,208,58]},"mb":{"12:310":["img/y-12_310.webp",45.5,7210.2,299,58],"12:312":["img/y-12_312.webp",45.5,7278.2,299,62],"12:471":["img/y-12_471.webp",115.5,8344.3,159,58],"37:843":["img/y-37_843.webp",20,9359.8,350,68],"12:513":["img/y-12_513.webp",43.5,10544.3,303,58]}}</script>
 <script type="application/json" id="gardata">{"d": {"w": [{"f": "img/gd-win-l.webp", "p": "img/gd-win-l-p.webp", "x": 137.0, "y": 2977.0, "w": 388.0, "h": 194.0}, {"f": "img/gd-win-g.webp", "p": "img/gd-win-g-p.webp", "x": 676.0, "y": 2982.0, "w": 116.0, "h": 218.0}, {"f": "img/gd-win-s.webp", "p": "img/gd-win-s-p.webp", "x": 801.0, "y": 2983.0, "w": 502.0, "h": 216.0}], "b": [[142.0, 2949.6], [166.0, 2954.4], [190.0, 2954.4], [214.0, 2949.6], [262.0, 2949.6], [286.0, 2954.4], [310.0, 2954.4], [334.0, 2949.6], [382.0, 2949.6], [406.0, 2954.4], [430.0, 2954.4], [454.0, 2949.6], [502.0, 2949.6], [526.0, 2954.4], [550.0, 2954.4], [574.0, 2949.6], [622.0, 2949.6], [646.0, 2954.4], [670.0, 2954.4], [694.0, 2949.6], [742.0, 2949.6], [766.0, 2954.4], [790.0, 2954.4], [814.0, 2949.6], [862.0, 2949.6], [886.0, 2954.4], [910.0, 2954.4], [934.0, 2949.6], [982.0, 2949.6], [1006.0, 2954.4], [1030.0, 2954.4], [1054.0, 2949.6], [1102.0, 2949.6], [1126.0, 2954.4], [1150.0, 2954.4], [1174.0, 2949.6], [1222.0, 2949.6], [1246.0, 2954.4], [1270.0, 2954.4], [1294.0, 2949.6]], "r": 6.5}, "m": {"w": [{"f": "img/gm-win-l.webp", "p": "img/gm-win-l-p.webp", "x": 21.0, "y": 2650.0, "w": 140.0, "h": 70.0}, {"f": "img/gm-win-g.webp", "p": "img/gm-win-g-p.webp", "x": 215.0, "y": 2652.0, "w": 42.0, "h": 78.5}, {"f": "img/gm-win-s.webp", "p": "img/gm-win-s-p.webp", "x": 260.0, "y": 2652.5, "w": 130.0, "h": 77.5}], "b": [[22.96, 2640.33], [31.6, 2642.05], [40.24, 2642.05], [48.88, 2640.33], [66.16, 2640.33], [74.8, 2642.05], [83.44, 2642.05], [92.08, 2640.33], [109.36, 2640.33], [118.0, 2642.05], [126.64, 2642.05], [135.28, 2640.33], [152.56, 2640.33], [161.2, 2642.05], [169.84, 2642.05], [178.48, 2640.33], [195.76, 2640.33], [204.4, 2642.05], [213.04, 2642.05], [221.68, 2640.33], [238.96, 2640.33], [247.6, 2642.05], [256.24, 2642.05], [264.88, 2640.33], [282.16, 2640.33], [290.8, 2642.05], [299.44, 2642.05], [308.08, 2640.33], [325.36, 2640.33], [334.0, 2642.05], [342.64, 2642.05], [351.28, 2640.33], [368.56, 2640.33], [377.2, 2642.05], [385.84, 2642.05]], "r": 2.34}}</script>
 <script>
 {
@@ -292,8 +292,8 @@ button.o.bt[aria-busy=true]{opacity:.6;pointer-events:none}
   const items = [];
   let seed = 7; const rnd = () => (seed = (seed * 9301 + 49297) % 233280) / 233280;
   for (const [set, main] of [['d', document.getElementById('desk')], ['m', document.getElementById('mob')]]) {
-    const secs = DC[set + 'sec'].map(([y, h]) => {
-      const sc = document.createElement('div'); sc.className = 'sc';
+    const secs = DC[set + 'sec'].map(([y, h], i) => {
+      const sc = document.createElement('div'); sc.className = 'sc'; sc.dataset.i = i;
       sc.style.cssText = `top:calc(${y}*var(--u));height:calc(${h}*var(--u))`;
       main.appendChild(sc); return sc;
     });
@@ -361,7 +361,13 @@ button.o.bt[aria-busy=true]{opacity:.6;pointer-events:none}
     }
     function make() { const el = new Image(); el.alt = ''; el.decoding = 'async'; layer.appendChild(el); return params({ el }, true); }
     function reset() { W = innerWidth; H = innerHeight; layer.textContent = ''; const n = W < 821 ? 11 : 18; P = Array.from({ length: n }, () => make()); }
-    reset(); addEventListener('resize', () => { if (Math.abs(innerWidth - W) > 40) reset(); else { W = innerWidth; H = innerHeight; } });
+    // the «до встречи» block has its own confetti — no falling paper over it
+    if ('IntersectionObserver' in window) {
+      const calm = new Set();
+      const io2 = new IntersectionObserver(es => { es.forEach(e => e.isIntersecting ? calm.add(e.target) : calm.delete(e.target)); layer.classList.toggle('calm', calm.size > 0); }, { threshold: .25 });
+      document.querySelectorAll('.sc[data-i="6"]').forEach(s => io2.observe(s));
+    }
+    reset(); addEventListener('resize',() => { if (Math.abs(innerWidth - W) > 40) reset(); else { W = innerWidth; H = innerHeight; } });
     addEventListener('scroll', () => { vScroll += scrollY - lastY; lastY = scrollY; }, { passive: true });
     let run = true; document.addEventListener('visibilitychange', () => { run = !document.hidden; last = performance.now(); if (run) requestAnimationFrame(tick); });
     function tick(now) {
@@ -395,13 +401,33 @@ button.o.bt[aria-busy=true]{opacity:.6;pointer-events:none}
     }
     if (!raf) raf = requestAnimationFrame(step);
   }
+  // sequins: round shiny discs that pop out in every direction from the click point
+  const SEQ = ['#EFADC7', '#F2D06E', '#9EC2DB', '#5062C9', '#E8592B', '#9C9D45', '#E22A1A', '#C9B8B0'];
+  function sequins(x, y) {
+    if (reduce) return;
+    const dpr = Math.min(2, devicePixelRatio || 1);
+    if (!raf) { boom.width = innerWidth * dpr; boom.height = innerHeight * dpr; bctx.setTransform(dpr, 0, 0, dpr, 0, 0); }
+    const n = 26 + Math.floor(Math.random() * 10);
+    for (let i = 0; i < n; i++) {
+      const a = Math.random() * Math.PI * 2, v = 3 + Math.random() * 7;
+      parts.push({ x, y, vx: Math.cos(a) * v, vy: Math.sin(a) * v - 3, r: 4 + Math.random() * 5, c: SEQ[Math.floor(Math.random() * SEQ.length)], rot: Math.random() * 6, vr: (Math.random() - .5) * .4, seq: true, ph: Math.random() * 6, t: 0 });
+    }
+    if (!raf) raf = requestAnimationFrame(step);
+  }
   function step() {
     bctx.clearRect(0, 0, innerWidth, innerHeight);
     parts = parts.filter(p => p.t < 160 && p.y < innerHeight + 40);
     for (const p of parts) {
       p.t++; p.vy += .32; p.vx *= .985; p.vy *= .985; p.x += p.vx; p.y += p.vy; p.rot += p.vr;
       bctx.save(); bctx.translate(p.x, p.y); bctx.rotate(p.rot); bctx.globalAlpha = Math.min(1, (160 - p.t) / 40); bctx.fillStyle = p.c;
-      if (p.round) { bctx.beginPath(); bctx.arc(0, 0, p.r, 0, 7); bctx.fill(); } else { bctx.scale(1, Math.cos(p.t * .2)); bctx.fillRect(-p.r, -p.r * .6, p.r * 2, p.r * 1.2); }
+      if (p.seq) {
+        // a flat disc that flips as it flies, with a highlight catching the light
+        const fl = Math.cos(p.ph + p.t * .18); bctx.scale(1, .25 + .75 * Math.abs(fl));
+        bctx.beginPath(); bctx.arc(0, 0, p.r, 0, 7); bctx.fill();
+        bctx.globalAlpha *= .35 + .55 * Math.max(0, fl); bctx.fillStyle = '#fff';
+        bctx.beginPath(); bctx.arc(-p.r * .3, -p.r * .3, p.r * .35, 0, 7); bctx.fill();
+        bctx.globalAlpha = 1; bctx.lineWidth = .8; bctx.strokeStyle = 'rgba(22,22,22,.25)'; bctx.beginPath(); bctx.arc(0, 0, p.r * .22, 0, 7); bctx.stroke();
+      } else if (p.round) { bctx.beginPath(); bctx.arc(0, 0, p.r, 0, 7); bctx.fill(); } else { bctx.scale(1, Math.cos(p.t * .2)); bctx.fillRect(-p.r, -p.r * .6, p.r * 2, p.r * 1.2); }
       bctx.restore();
     }
     raf = parts.length ? requestAnimationFrame(step) : 0;
@@ -464,6 +490,26 @@ button.o.bt[aria-busy=true]{opacity:.6;pointer-events:none}
   menu.addEventListener('click', e => { if (e.target.tagName === 'A') { menu.classList.remove('open'); burger.setAttribute('aria-expanded', 'false'); } });
   const up = document.querySelector('.up');
   addEventListener('scroll', () => up.classList.toggle('show', scrollY > 700), { passive: true });
+  // header slides away while scrolling down, comes back on the way up
+  const heads = document.querySelectorAll('.hd');
+  let hy = scrollY;
+  addEventListener('scroll', () => {
+    const y = scrollY, dy = y - hy;
+    if (Math.abs(dy) < 6) return;
+    const hide = dy > 0 && y > 120 && !menu.classList.contains('open');
+    heads.forEach(h => h.classList.toggle('away', hide));
+    hy = y;
+  }, { passive: true });
+  // jumping to a section from the menu scrolls down — keep the header out of the way there
+  document.addEventListener('focusin', e => { if (e.target.closest('.hd')) heads.forEach(h => h.classList.remove('away')); });
+
+  // ---------- easter egg: a click on an empty spot throws a handful of sequins
+  const BUSY = 'a,button,input,textarea,select,label,.chip,.dlg,.menu,.up';
+  addEventListener('click', e => {
+    if (e.button !== 0 || e.target.closest(BUSY) || dlg.classList.contains('open')) return;
+    if (String(getSelection()).length) return;
+    sequins(e.clientX, e.clientY);
+  });
 
   // ---------- RSVP
   document.querySelectorAll('.rsvp').forEach(f => f.addEventListener('click', e => {
@@ -472,7 +518,6 @@ button.o.bt[aria-busy=true]{opacity:.6;pointer-events:none}
   }));
   const dlg = document.querySelector('.dlg'), card = dlg.querySelector('.card');
   const MSG = { yes: ['если «да»', 'ура! увидимся в гараже ♡'], maybe: ['если «очень постараюсь»', 'буду надеяться, что получится!'], no: ['если «не получится»', 'спасибо, что ответил(а)! значит, увидимся в другой день ♡'] };
-  const LBL = { yes: 'Да, приду!', maybe: 'Очень постараюсь', no: 'В этот раз не получится' };
   const close = () => dlg.classList.remove('open');
   document.getElementById('dlgX').addEventListener('click', close);
   dlg.addEventListener('click', e => { if (e.target === dlg) close(); });
@@ -497,18 +542,14 @@ button.o.bt[aria-busy=true]{opacity:.6;pointer-events:none}
     btn.setAttribute('aria-busy', 'true');
     const ok = f.website.value ? true : await save({ name: name.slice(0, 80), attend, song: song ? song.slice(0, 200) : null });
     btn.removeAttribute('aria-busy');
-    const text = `Привет, Маша! Это ${name}.\nНа квартирник 7 декабря: ${LBL[attend]}.` + (song ? `\nПесня для меня: ${song}` : '');
-    const tg = document.getElementById('dlgTg');
-    document.getElementById('dlgK').textContent = ok ? 'ответ отправлен' : MSG[attend][0];
-    document.getElementById('dlgT').textContent = MSG[attend][1];
-    document.getElementById('dlgP').textContent = ok ? 'Ответ уже у меня. Передумаешь — просто отправь форму ещё раз.' : 'Чтобы я точно получила ответ, отправь его мне в Telegram — сообщение уже готово.';
-    document.getElementById('dlgN').textContent = ok ? 'Вопросы можно задать в Telegram @maru_stepanova.' : 'Ответ уйдёт сообщением в Telegram @maru_stepanova.';
-    tg.hidden = ok; tg.href = 'https://t.me/maru_stepanova?text=' + encodeURIComponent(text);
-    card.className = 'card ' + attend;
+    document.getElementById('dlgK').textContent = ok ? 'ответ отправлен' : 'ответ не отправился';
+    document.getElementById('dlgT').textContent = ok ? MSG[attend][1] : 'ой, что-то пошло не так';
+    document.getElementById('dlgP').textContent = ok ? 'Ответ уже у меня. Передумаешь — просто отправь форму ещё раз.' : 'Проверь интернет и нажми «отправить ответ» ещё раз — всё, что ты написал(а), осталось в форме.';
+    card.className = 'card ' + (ok ? attend : 'no');
     if (ok) { f.name.value = ''; f.song.value = ''; }
     const sb = btn.getBoundingClientRect();
-    if (attend !== 'no') burst(sb.left + sb.width / 2, sb.top + sb.height / 2);
-    setTimeout(() => { dlg.classList.add('open'); (ok ? document.getElementById('dlgX') : tg).focus(); }, attend !== 'no' && !reduce ? 450 : 0);
+    if (ok && attend !== 'no') burst(sb.left + sb.width / 2, sb.top + sb.height / 2);
+    setTimeout(() => { dlg.classList.add('open'); document.getElementById('dlgX').focus(); }, ok && attend !== 'no' && !reduce ? 450 : 0);
   }));
 }
 </script>

diff --git a/README.md b/README.md
@@ -2,5 +2,5 @@
 
 Сайт-приглашение на гаражный квартирник 7 декабря 2026, Garage du funk, Пермь.
 
-Статичный сайт: `index.html` + картинки в `img/`. Ответы гостей уходят в Supabase (таблица `rsvp`), запасной вариант — сообщение в Telegram.
+Статичный сайт: `index.html` + картинки в `img/`. Ответы гостей уходят в Supabase (таблица `rsvp`), оттуда триггер сразу пересылает их сообщением в Telegram-бот. Настройка — один раз запустить в SQL Editor `supabase/telegram-setup.sql`, а затем `supabase/telegram-secrets.sql` со своим токеном бота и chat_id.
 Публикуется через GitHub Pages: Settings → Pages → Deploy from a branch → `main` / `(root)`.
